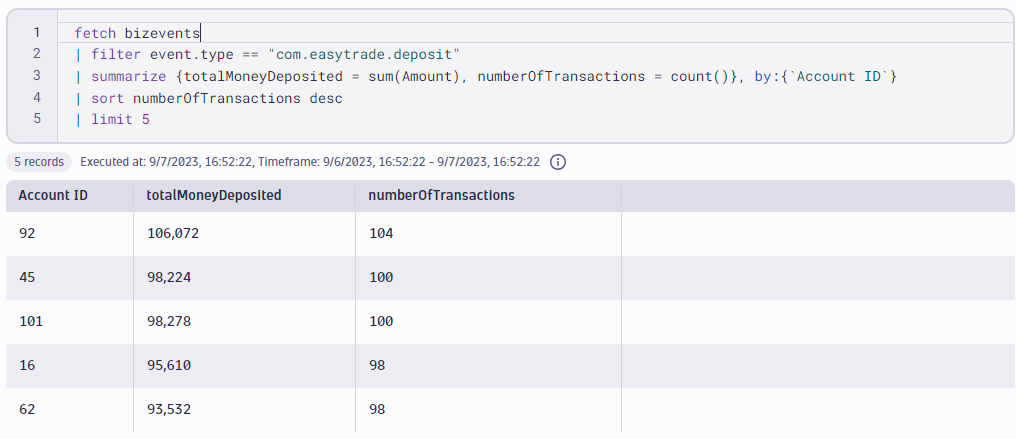
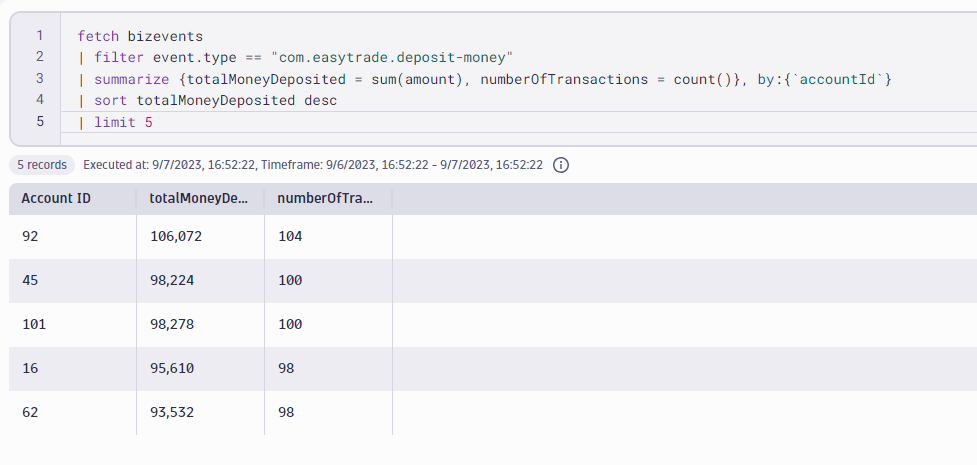
post dry run updates to bizevent exercises

diff --git a/DQL HOT 2 - DQL in Practice/content/03_DQL_Bizevents/index.md b/DQL HOT 2 - DQL in Practice/content/03_DQL_Bizevents/index.md
@@ -25,7 +25,7 @@ Three business events have been preconfigured in this environment for the EasyTr
 	| summarize count = count(), by:{event.provider, event.type}
 ```
 
-![Bizevent Exercise 1 Solution](../../assets/images/bizevent_solution_ex2.png)
+![Bizevent Exercise 1 Solution](../../assets/images/bizevent_solution_1.png)
 
 </H4></details>
 
@@ -40,7 +40,7 @@ Now that we know what business events exist in this environment, we can begin us
 
 Business events don't just represent the occurrence of an event.  Business event objects can also contain extracted data which provides additional information about the event.
 
-One of the business events, _com.easytrade.deposit-money_, represents a user using the application to deposit money.  This event is configured to extract additional information including the user's account id (**Account ID**) and the amount of money deposited (**Amount**).
+One of the business events, _com.easytrade.deposit-money_, represents a user using the application to deposit money.  This event is configured to extract additional information including the user's account id (**accountId**) and the amount of money deposited (**amount**).
 
 #### Write a query that will provide the number of <u>unique users</u> who have deposited money in the last 2 hours.
 
@@ -56,7 +56,7 @@ One of the business events, _com.easytrade.deposit-money_, represents a user usi
     | summarize distinctUsers = countDistinct(accountId)
 ```
 
-![Bizevent Exercise 2 Solution](../../assets/images/bizevent_solution_ex3.png)
+![Bizevent Exercise 2 Solution](../../assets/images/bizevent_solution_2.png)
 
 </H4></details>
 
@@ -71,7 +71,7 @@ One of the business events, _com.easytrade.deposit-money_, represents a user usi
 
 There are many ways the Summarize command can be used to manipulate the captured data to perform analysis.
 
-#### Using the summarize command and the available fields (Account ID and Amount), write a query to provide the following:
+#### Using the summarize command and the available fields (accountId and amount), write a query to provide the following:
 - The total amount of money deposited by each user.
 - The total number of deposit transactions initiated by each user.
 - Order the list to show the users who have deposited the most amount of money first.
@@ -82,8 +82,8 @@ There are many ways the Summarize command can be used to manipulate the captured
 
 ```
     fetch bizevents
-    | filter event.type == "com.easytrade.deposit"
-    | summarize {totalMoneyDeposited = sum(Amount), numberOfTransactions = count()}, by:{`Account ID`}
+    | filter event.type == "com.easytrade.deposit-money"
+    | summarize {totalMoneyDeposited = sum(amount), numberOfTransactions = count()}, by:{`accountId`}
     | sort totalMoneyDeposited desc
     | limit 5
 ```

diff --git a/DQL HOT 2 - DQL in Practice/content/01_DQL_Optimizations/index.md b/DQL HOT 2 - DQL in Practice/content/01_DQL_Optimizations/index.md
@@ -21,10 +21,11 @@ fetch dt.system.query_executions
 ```
 
 **Questions to think about:**
-- What fields tell me about the cost of this query?  
 - Is there more than one way to think about query cost?
+- Which fields give me information about the cost of this query?  
 - What fields could I use to find where this query was run?
 
+<br>
 
 **Expected Results:**
 
